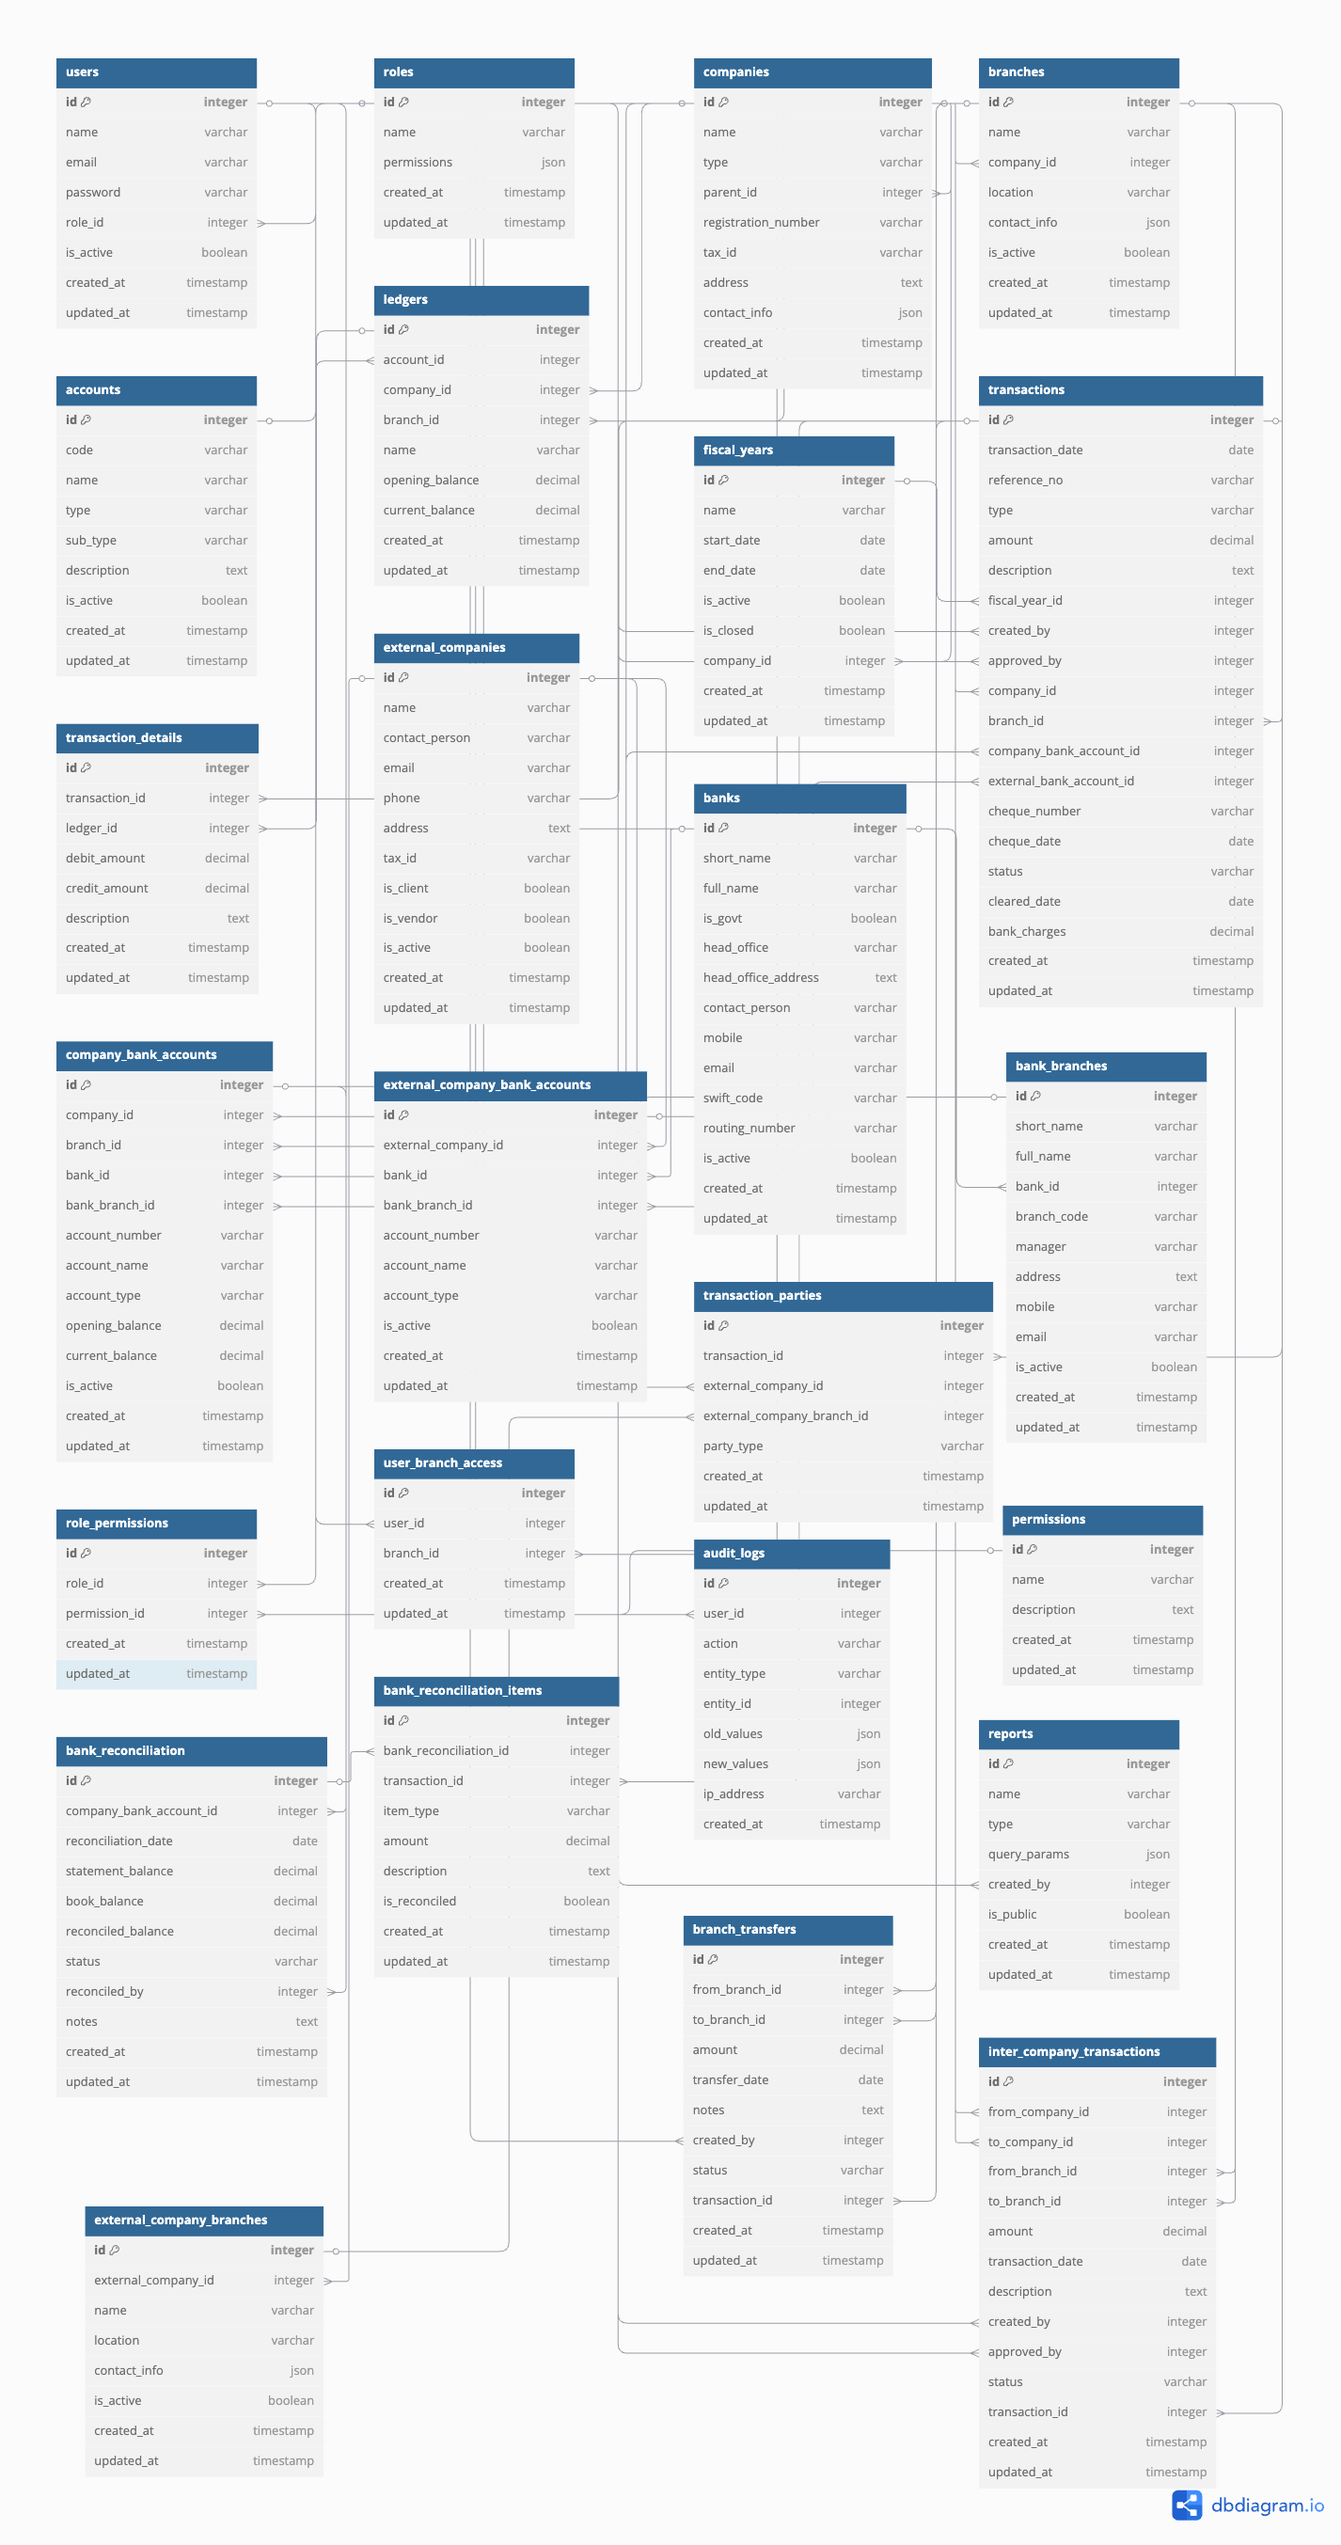
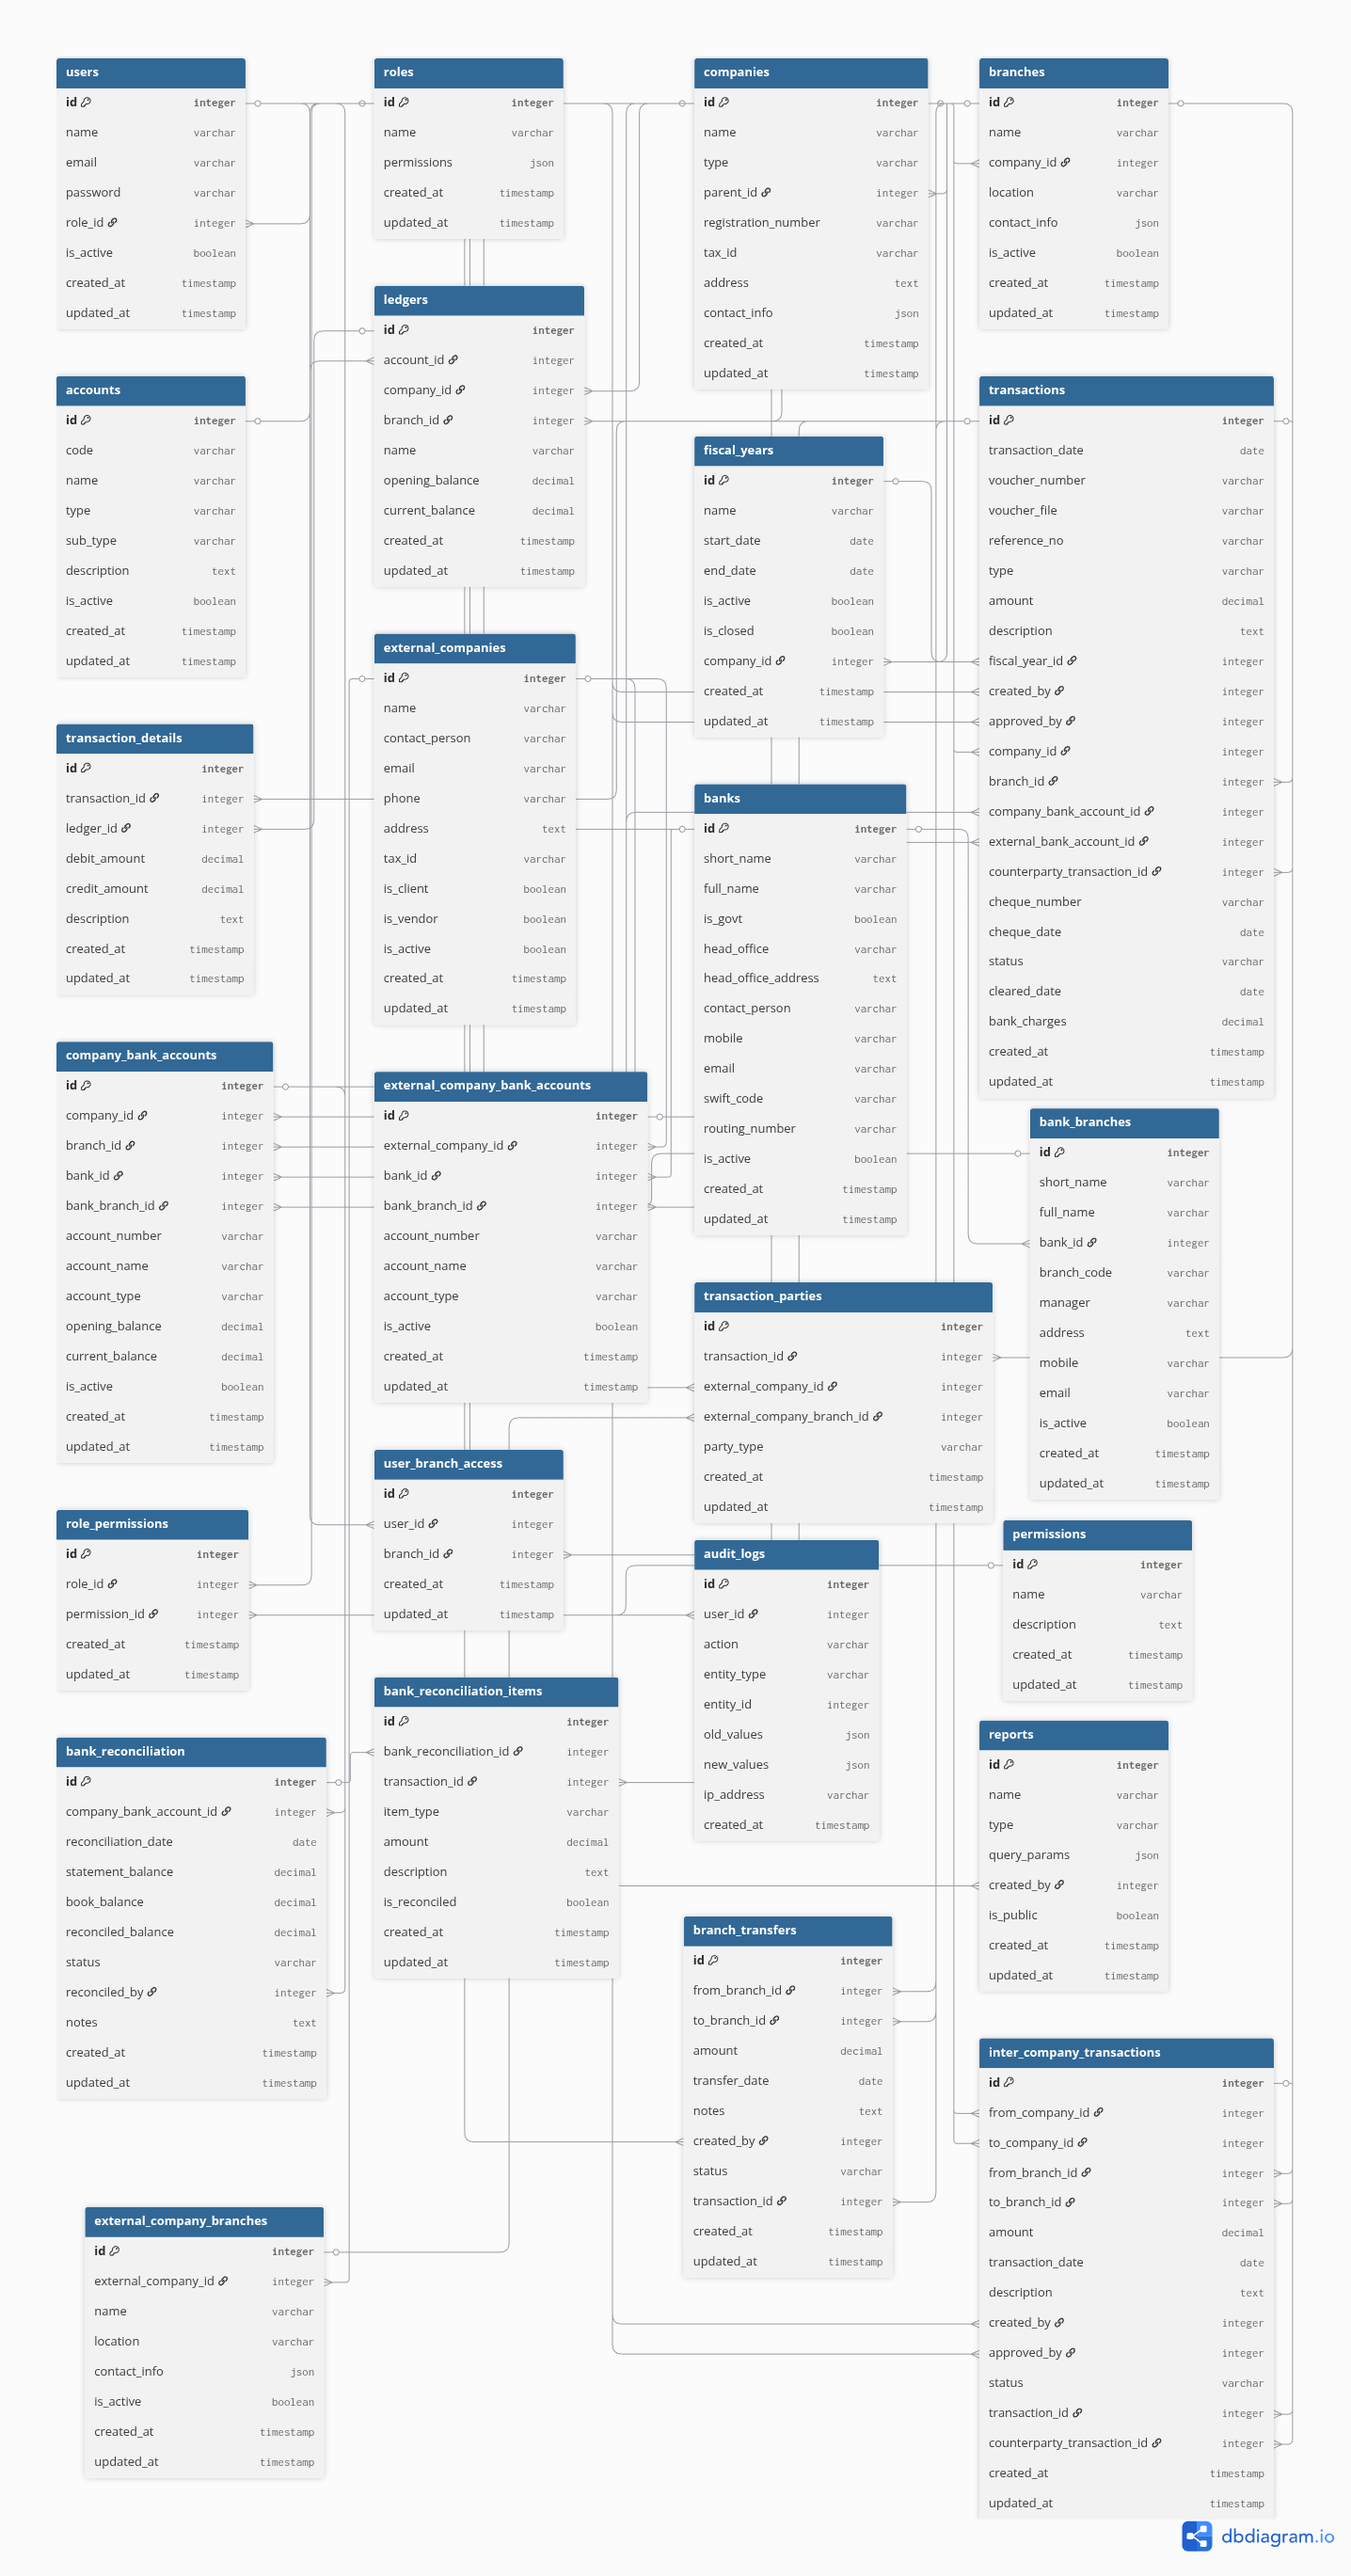
fix: added voucher related field to the transaction table

diff --git a/database_schema_documentation.md b/database_schema_documentation.md
@@ -219,6 +219,8 @@ This database schema is designed for a multi-company, multi-branch accounting sy
 | `id` | INTEGER (PK) | Unique identifier for each transaction |
 | `transaction_date` | DATE | Date when the transaction occurred |
 | `reference_no` | VARCHAR | External reference number (invoice, receipt, etc.) |
+| `voucher_number` | VARCHAR | Voucher number for the transaction (e.g., DH-2024-CR-001) |
+| `voucher_file` | VARCHAR | File path to the voucher document |
 | `type` | VARCHAR | Transaction type (payment, receipt, journal, transfer, bank_deposit, etc.) |
 | `amount` | DECIMAL | Total transaction amount |
 | `description` | TEXT | Transaction description/memo |
